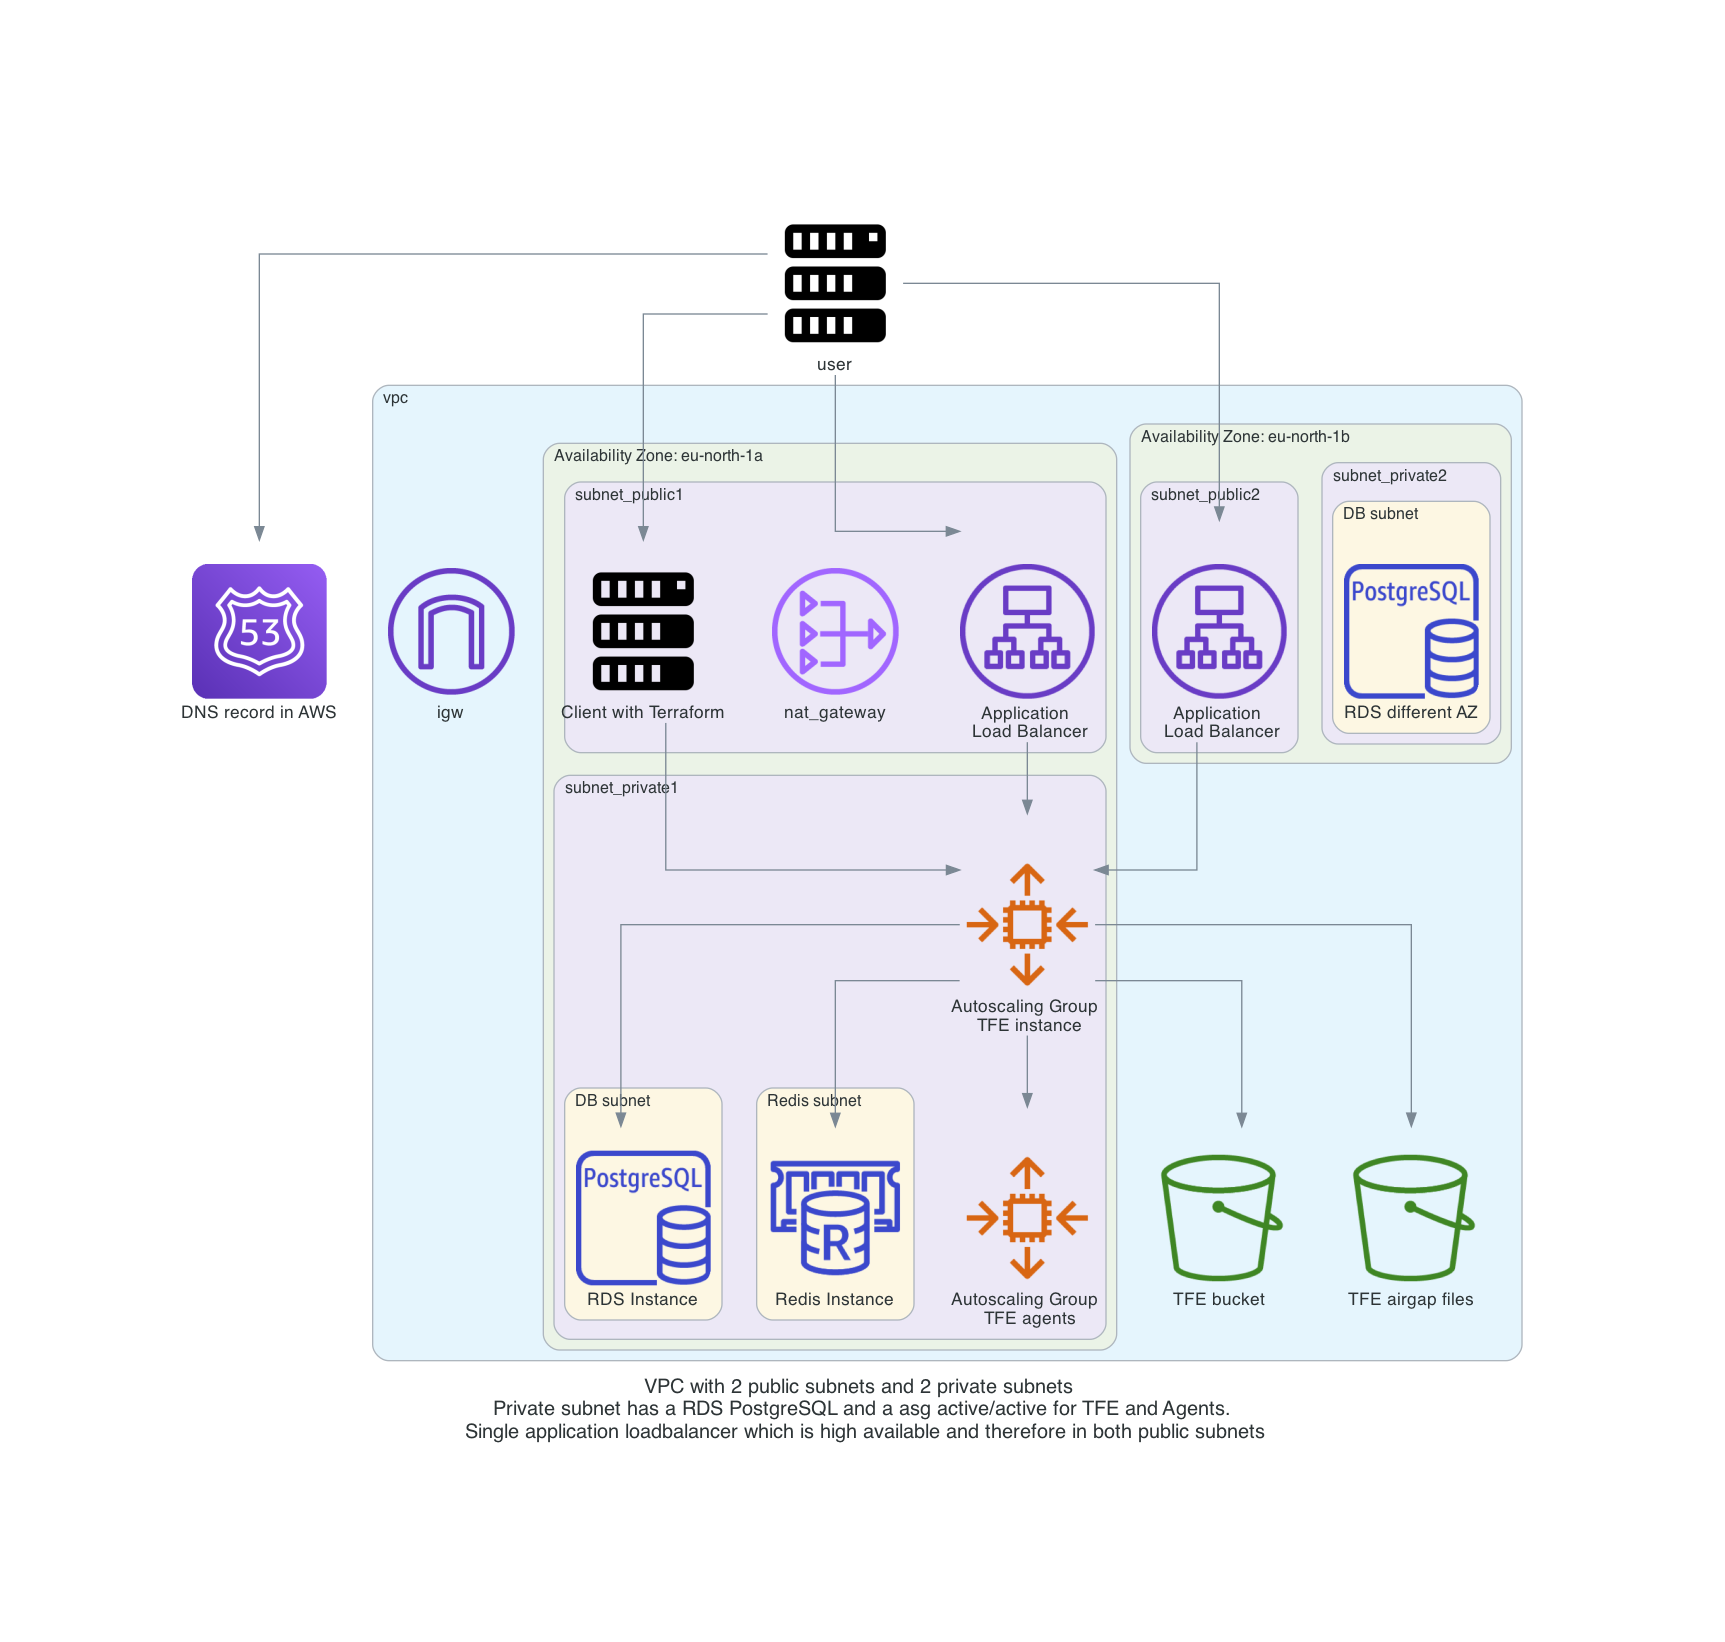
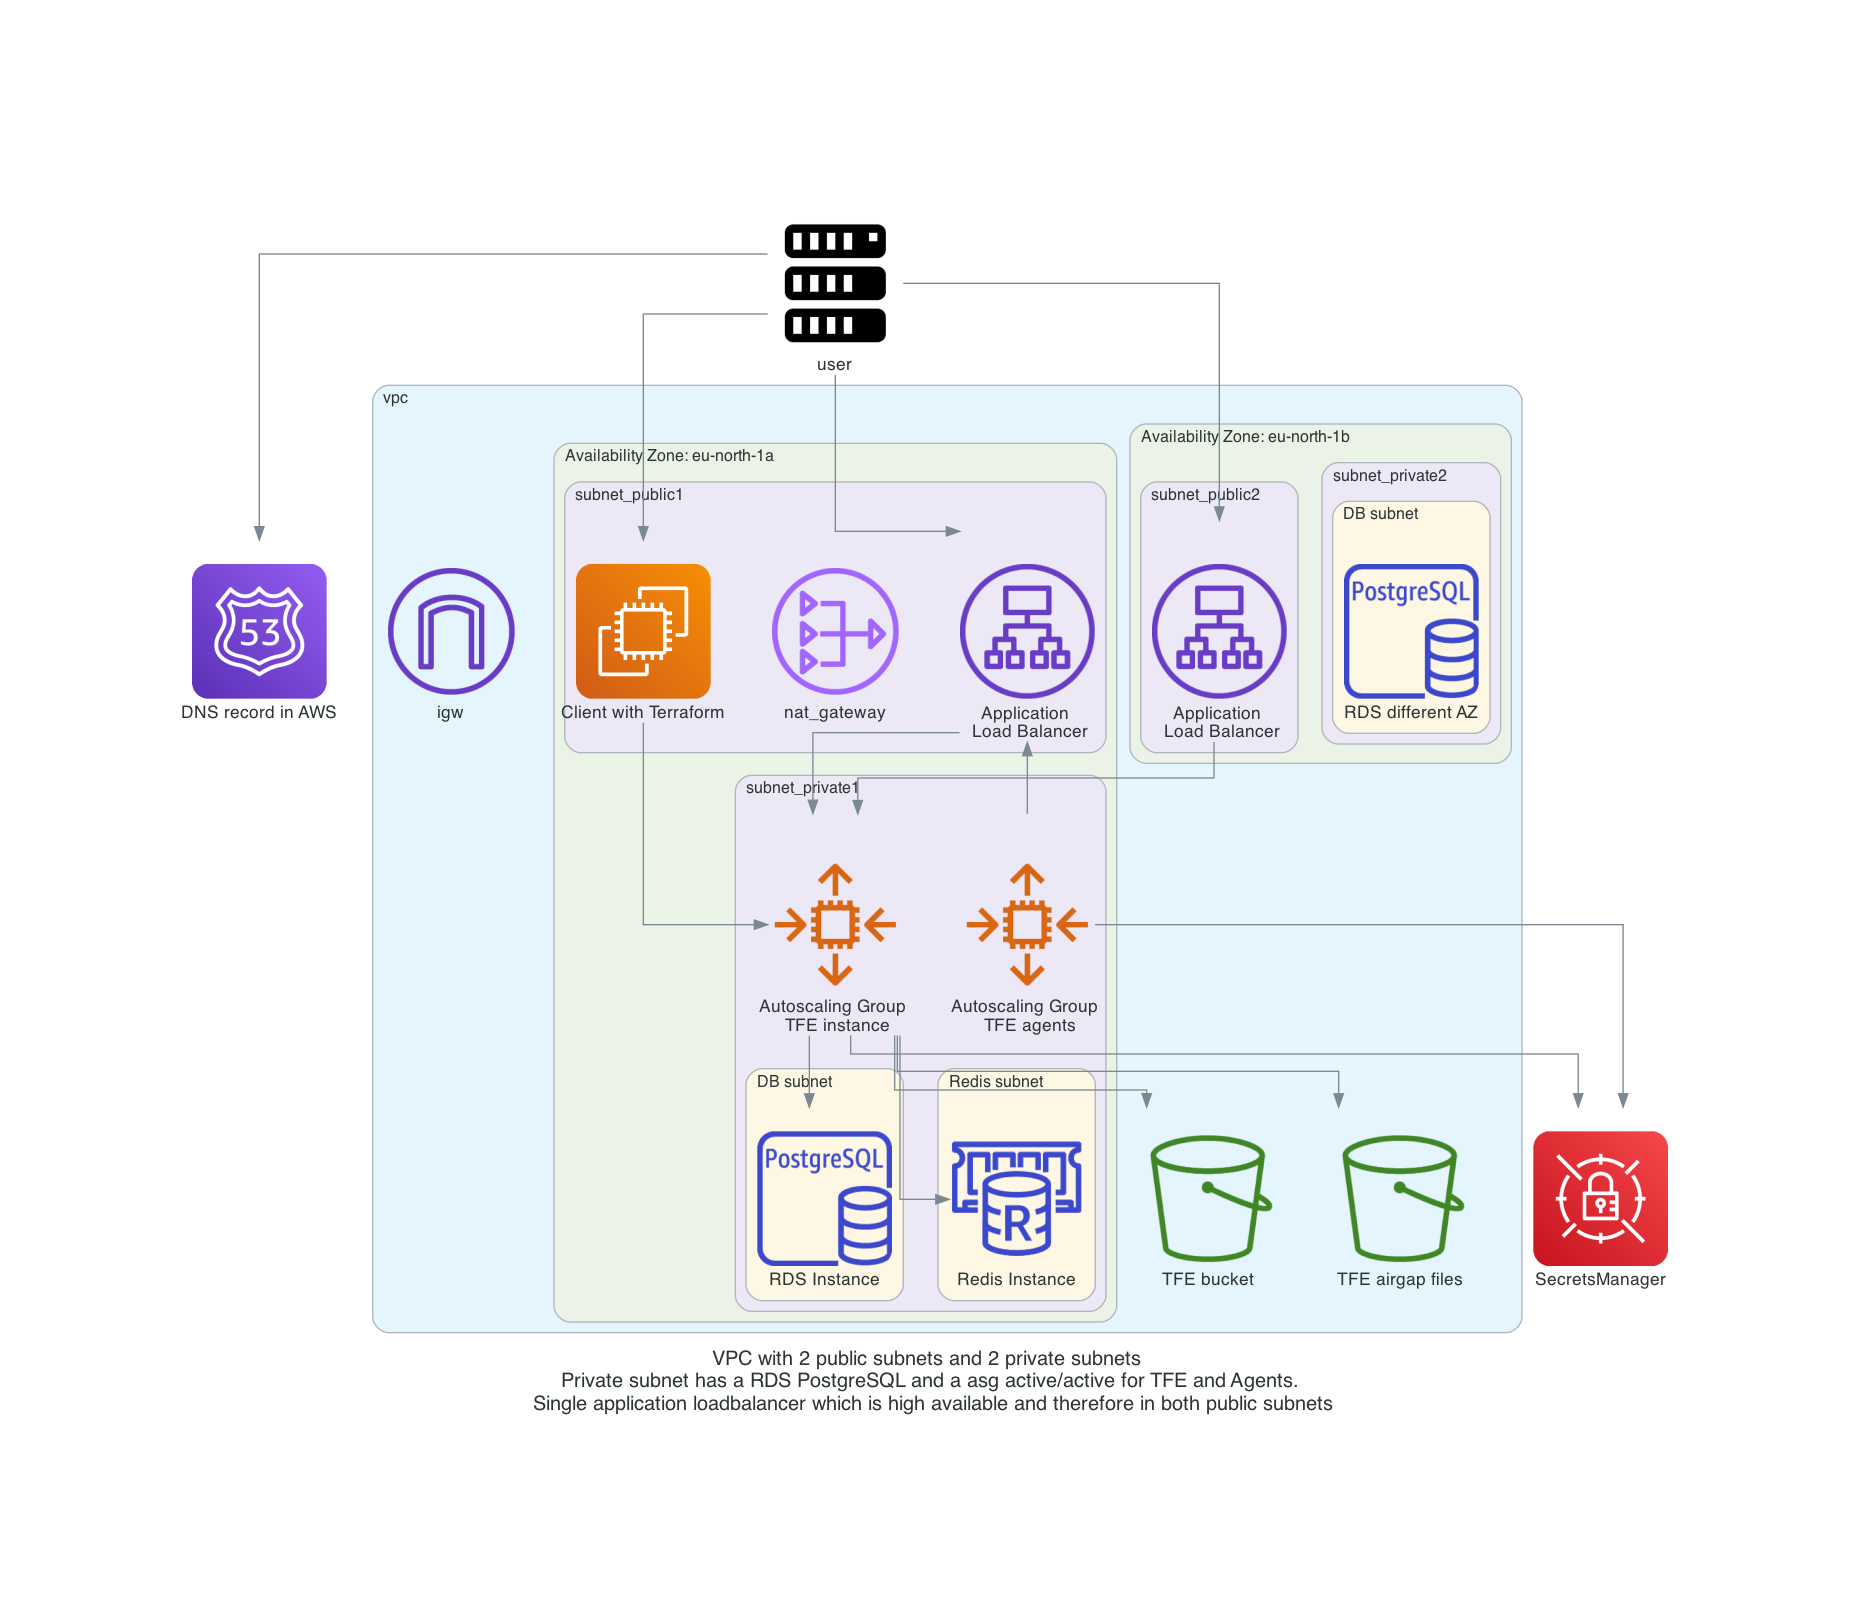
SecretManager to details page

Changed region(s): [[0.0922, 0.1239, 0.9217, 0.8984]]

diff --git a/diagram/diagram_tfe_active_active_agents.py b/diagram/diagram_tfe_active_active_agents.py
@@ -5,6 +5,7 @@ from diagrams.onprem.compute import Server
 from diagrams.aws.storage import SimpleStorageServiceS3Bucket
 from diagrams.aws.database import RDSPostgresqlInstance
 from diagrams.aws.database import ElasticacheForRedis
+from diagrams.aws.security import SecretsManager
 
 # Variables
 title = "VPC with 2 public subnets and 2 private subnets \n Private subnet has a RDS PostgreSQL and a asg active/active for TFE and Agents. \n Single application loadbalancer which is high available and therefore in both public subnets"
@@ -22,7 +23,7 @@ with Diagram(
     # Non Clustered
     user = Server("user")
     route53=Route53("DNS record in AWS")
-
+    secretmanager = SecretsManager("SecretsManager")
     # Cluster 
     with Cluster("vpc"):
         bucket_tfe = SimpleStorageServiceS3Bucket("TFE bucket")
@@ -46,7 +47,7 @@ with Diagram(
             with Cluster("subnet_public1"):
                 loadbalancer1 = ElbApplicationLoadBalancer("Application \n Load Balancer")
                 nat_gateway = NATGateway("nat_gateway")
-                tf_client = Server("Client with Terraform")
+                tf_client = EC2("Client with Terraform")
             # Subcluster
             with Cluster("subnet_private1"):
                 asg_tfe_server = EC2AutoScaling("Autoscaling Group \n TFE instance")
@@ -64,10 +65,13 @@ with Diagram(
 
 
     asg_tfe_server >> [redis,
-                       asg_tfe_agents,
                        postgresql,
                        bucket_tfe,
-                       bucket_files
+                       bucket_files,
+                       secretmanager
     ]
+    
+    asg_tfe_agents >> secretmanager
+    asg_tfe_agents >> loadbalancer1
     
 diag
